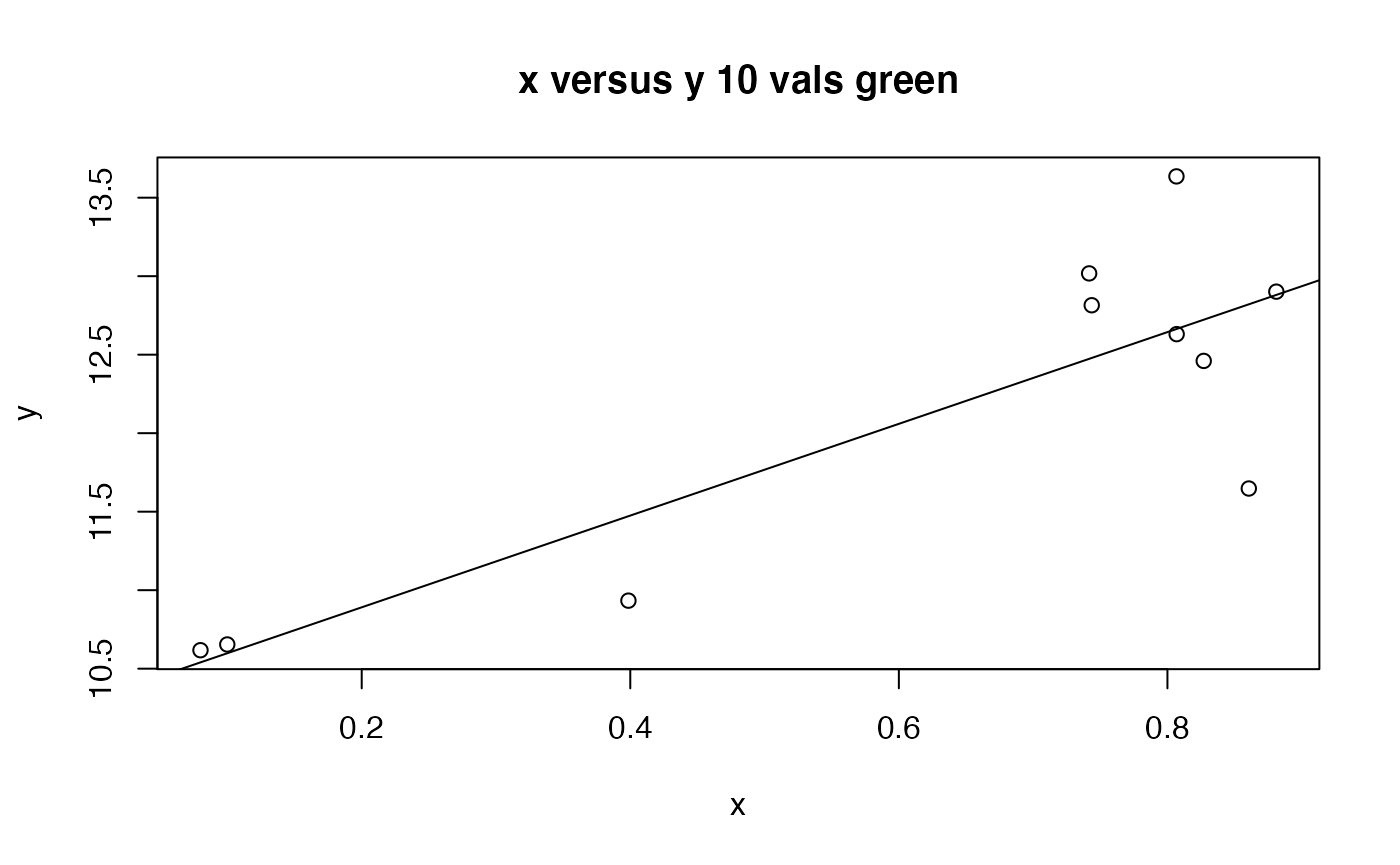
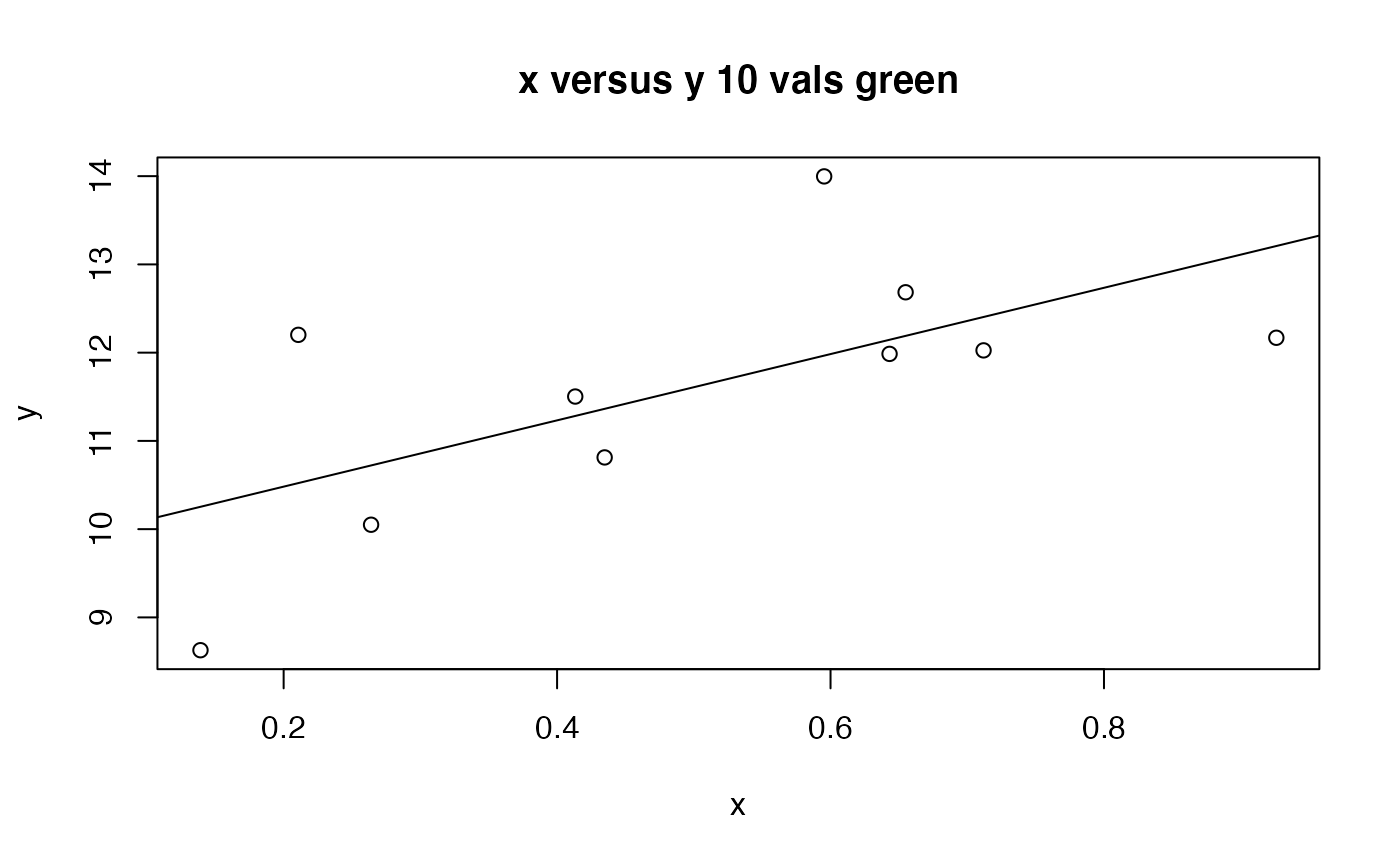
fix the badge links

diff --git a/docs/articles/samplevignette.html b/docs/articles/samplevignette.html
@@ -131,7 +131,7 @@
 
       
 
-      </header><script src="samplevignette_files/header-attrs-2.9/header-attrs.js"></script><div class="row">
+      </header><script src="samplevignette_files/header-attrs-2.11/header-attrs.js"></script><div class="row">
   <div class="col-md-9 contents">
     <div class="page-header toc-ignore">
       <h1 data-toc-skip>samplevignette</h1>
@@ -156,7 +156,7 @@
 <span class="va">y</span> <span class="op">&lt;-</span> <span class="fl">10</span> <span class="op">+</span> <span class="fl">3</span><span class="op">*</span><span class="va">x</span> <span class="op">+</span> <span class="fu"><a href="https://rdrr.io/r/stats/Normal.html">rnorm</a></span><span class="op">(</span><span class="fl">10</span><span class="op">)</span>
 <span class="fu"><a href="../reference/sampleplot.html">sampleplot</a></span><span class="op">(</span><span class="va">x</span>, <span class="va">y</span><span class="op">)</span></code></pre></div>
 <pre><code>## (Intercept)           x 
-##   10.306526    2.921569</code></pre>
+##    9.730604    3.755383</code></pre>
 <div class="sourceCode" id="cb4"><pre class="downlit sourceCode r">
 <code class="sourceCode R"><span class="fu"><a href="https://rdrr.io/r/graphics/title.html">title</a></span><span class="op">(</span><span class="fu"><a href="../reference/samplefunction.html">samplefunction</a></span><span class="op">(</span><span class="st">"x versus y"</span>, y<span class="op">=</span><span class="st">"10 vals"</span>, z<span class="op">=</span><span class="st">"green"</span><span class="op">)</span><span class="op">)</span></code></pre></div>
 <p><img src="samplevignette_files/figure-html/unnamed-chunk-1-1.png" width="700" style="display: block; margin: auto;"></p>

diff --git a/docs/index.html b/docs/index.html
@@ -165,7 +165,7 @@
 <ol>
 <li>Edit the DESCRIPTION file (change Title, Description, urls for repo, Authors)</li>
 <li>Add any required packages to Depends (or Imports* or Suggests*).</li>
-<li>Edit the Readme.Rmd file.</li>
+<li>Edit the Readme.Rmd file. Note, make sure to change <code>nmfs-fish-tools</code> in the badge section to your repo name.</li>
 <li>Add your functions to the R folder. There are some template functions there already.</li>
 <li>Don’t touch the man folder. Roxygen2 will make your Rd files.</li>
 </ol>
@@ -263,8 +263,8 @@
   <div class="dev-status">
 <h2>Dev status</h2>
 <ul class="list-unstyled">
-<li><a href="https://github.com/RWorkflow-Workshop-2021/pkgdown-template/releases"><img src="https://img.shields.io/github/v/release/RWorkflow-Workshop-2021/pkgdown-template" alt="GitHub release (latest by date)"></a></li>
-<li><a href="https://github.com/RWorkflow-Workshop-2021/pkgdown-template/actions/workflows/R-CMD-check.yaml"><img src="https://github.com/RWorkflow-Workshop-2021/pkgdown-template/workflows/R-CMD-check/badge.svg" alt="R-CMD-check"></a></li>
+<li><a href="https://github.com/nmfs-fish-tools/pkgdownTemplate/releases"><img src="https://img.shields.io/github/v/release/nmfs-fish-tools/pkgdownTemplate" alt="GitHub release (latest by date)"></a></li>
+<li><a href="https://github.com/nmfs-fish-tools/pkgdownTemplate/actions/workflows/R-CMD-check.yaml"><img src="https://github.com/nmfs-fish-tools/pkgdownTemplate/workflows/R-CMD-check/badge.svg" alt="R-CMD-check"></a></li>
 </ul>
 </div>
 </div>

diff --git a/docs/articles/samplevignette_files/header-attrs-2.11/header-attrs.js b/docs/articles/samplevignette_files/header-attrs-2.11/header-attrs.js
@@ -1,0 +1,12 @@
+// Pandoc 2.9 adds attributes on both header and div. We remove the former (to
+// be compatible with the behavior of Pandoc < 2.8).
+document.addEventListener('DOMContentLoaded', function(e) {
+  var hs = document.querySelectorAll("div.section[class*='level'] > :first-child");
+  var i, h, a;
+  for (i = 0; i < hs.length; i++) {
+    h = hs[i];
+    if (!/^h[1-6]$/i.test(h.tagName)) continue;  // it should be a header h1-h6
+    a = h.attributes;
+    while (a.length > 0) h.removeAttribute(a[0].name);
+  }
+});
